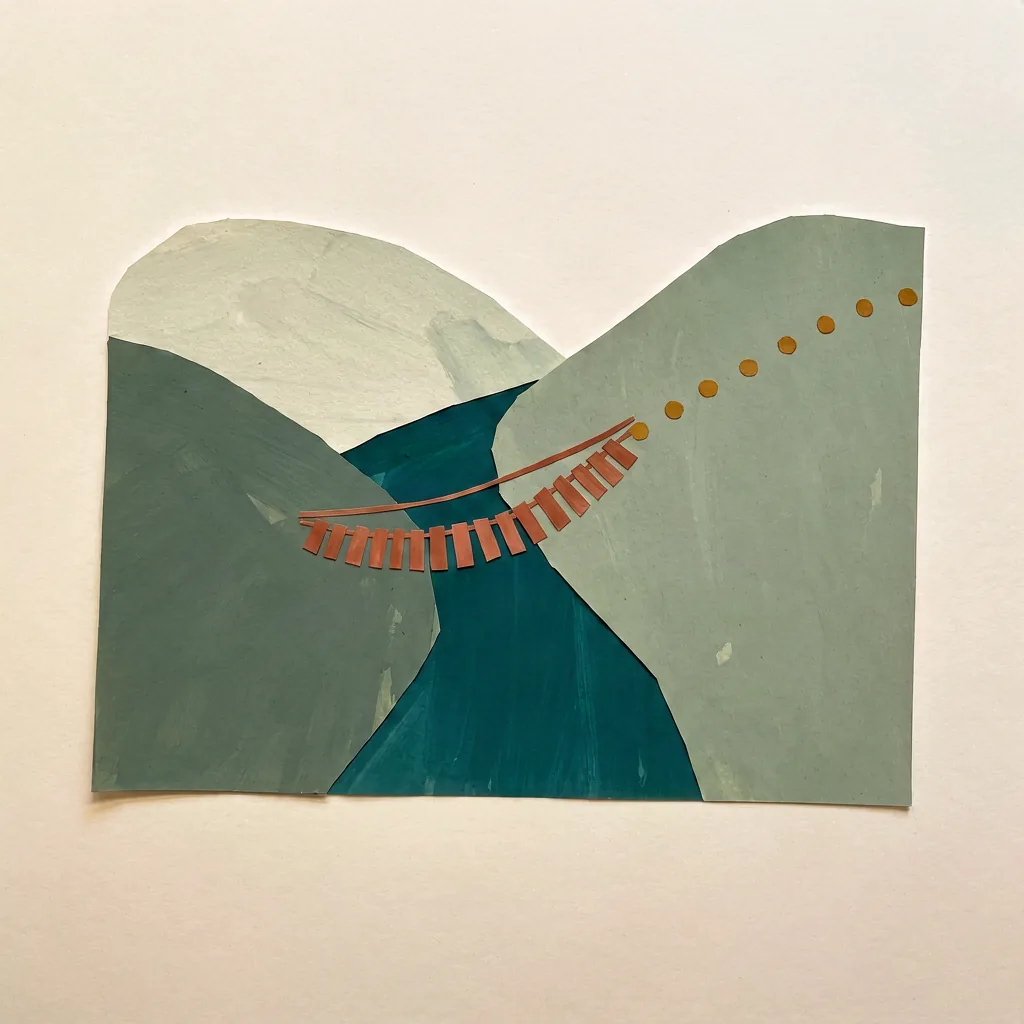
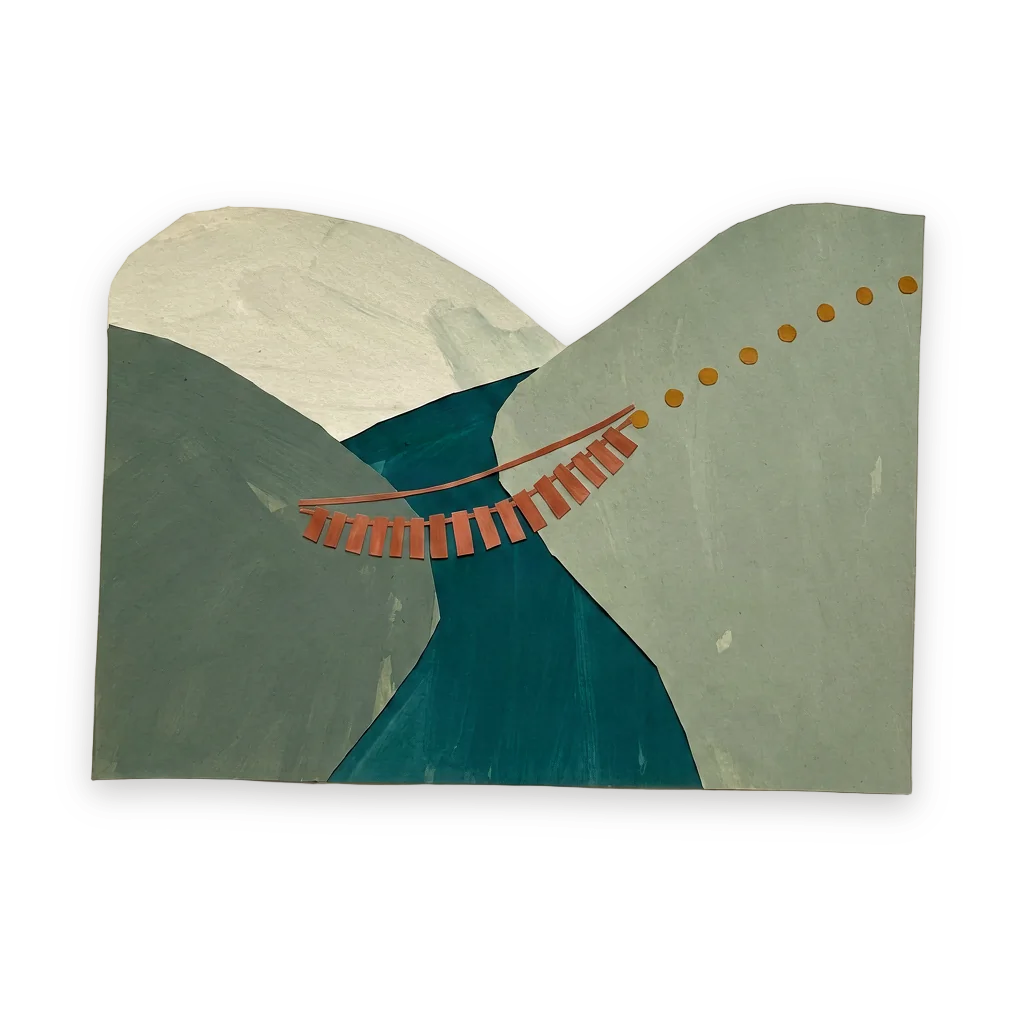
feat(landing): cut-out collage pieces with a baked shadow, and the Ruta Opta lockup on the social card
The collage pieces were photographed on their own sheets, and the CSS blend and
mask left pale squares around them on the bands. Their backgrounds are now
removed (ElevenLabs BiRefNet v2) and one soft, low-opacity shadow is baked into
each transparent WebP, so the .piece rule is plain again.

The social card adds the header's lockup (logo, hairline, "Ruta Opta"), since
the brand is never "Opta" alone, and ogAlt now describes the card.

diff --git a/apps/landing/src/app/[locale]/(site)/_components/home/layout.module.css b/apps/landing/src/app/[locale]/(site)/_components/home/layout.module.css
@@ -37,21 +37,11 @@
   color: var(--color-text-secondary);
 }
 
-/* A cut-paper piece photographed on its own sheet. Multiplied into the band, with the sheet's off-white lifted to white by a
-   brightness and contrast step, the sheet drops out and only the paper pieces stay. The feathered edges and the softened corners
-   hide the sheet's border and its vignette without touching the pieces, which all sit between 6 % and 94 % of their file and
-   within 112 % of the half-width from the centre (measured), so nothing of the art is cut */
+/* A cut-paper piece on a transparent ground, its one soft shadow baked into the file, so it sits on any band as placed paper */
 .piece {
   display: block;
   width: 100%;
   height: auto;
-  mix-blend-mode: multiply;
-  filter: brightness(1.12) contrast(1.2) saturate(0.95);
-  mask-image:
-    linear-gradient(to right, transparent, var(--color-text-primary) 5%, var(--color-text-primary) 95%, transparent),
-    linear-gradient(to bottom, transparent, var(--color-text-primary) 5%, var(--color-text-primary) 95%, transparent),
-    radial-gradient(circle closest-side, var(--color-text-primary) 112%, transparent 140%);
-  mask-composite: intersect;
 }
 
 @media (min-width: 62em) {
